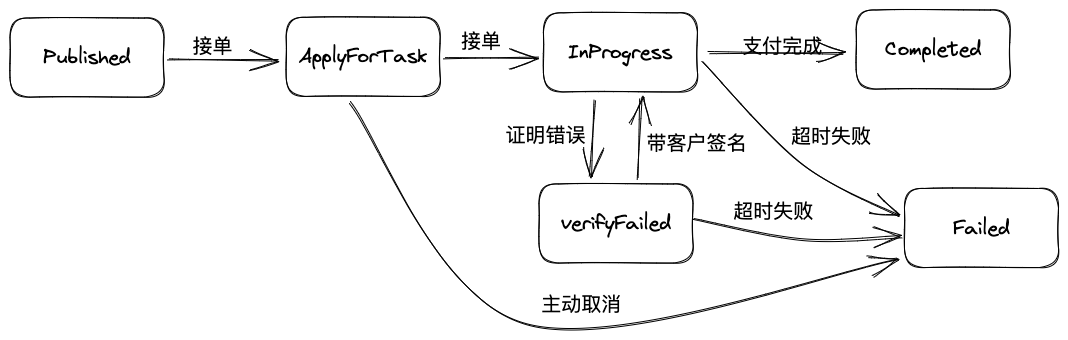
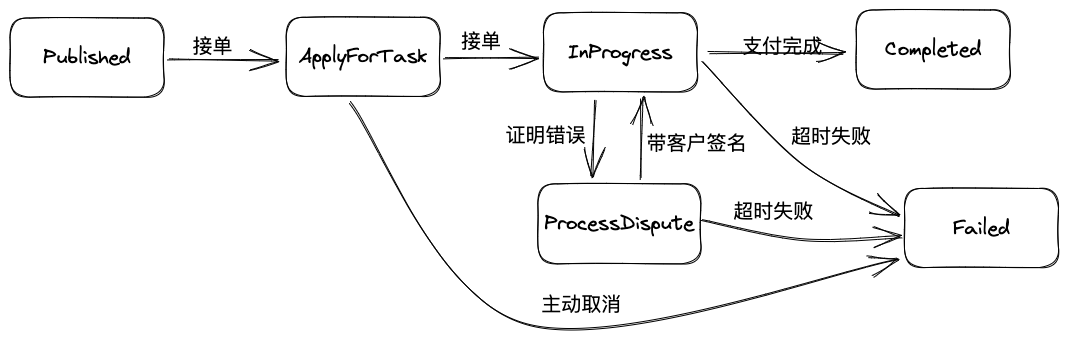
增加公共合约DataTranscation定义

diff --git a/systems/dataDeals/README.md b/systems/dataDeals/README.md
@@ -2,50 +2,119 @@
 
 ## 公共功能合约
 
-### ADataTransaction合约
+### DataTransaction合约
 
 数据交易公共接口约束数据交易基本操作，供各交易类型继承使用，以下为其接口及属性相关定义。
 
-#### ADataTransaction状态图
+#### DataTransaction状态图
 
 ![](./img/DataTransactionMachine.png)
+#### DataTransaction属性定义
+```
+// 定义交易状态
+enum TransactionState { Published, ApplyForTask, InProgress, ProcessDispute, Failed, Completed }
 
-#### ADataTransaction方法
+// 定义交易结构
+struct Transaction {
+    uint256 transactionId;         // 交易ID
+    uint256 maxDuration;           // 交易最大时长 
+    uint256 maxDisputeDuration;    // 最大争议处理时间
+    address provider;              // 提供者
+    string transcationType;        //交易类型
+}
 
-- 创建交易。
-- 取消交易。
-- 证明校验。
-- 完成交易。
+uint256 public totalTransactions;
 
-#### ADataTransaction属性  
+// 存储所有交易信息
+mapping(uint256 => Transaction) public transactions;
 
-- 交易管理员（admin）
-- 交易客户（client）
-- 交易最大时长（maxTransactionDuration）
-- 证明（proof）
-- 状态（status）
+// 交易客户 
+mapping(uint256 => address) public clients;
 
-```solidity
-struct Transaction { 
-    address admin, 
-    address client, 
-    uint256 maxTransactionDuration,
-    string proof,
-    TransactionStatus status; 
+// 用于检查交易是否存在
+mapping(uint256 => bool) public transactionExists;
+
+// 存储交易状态
+mapping(uint256 => TransactionState) public transactionStatus;
+```
+#### DataTransaction方法
+
+```
+// 事件：交易发布
+event TransactionPublished(uint256 indexed transactionId, address indexed client);
+
+// 事件：交易状态变更
+event TransactionStatusChanged(uint256 indexed transactionId, uint256 newStatus);
+
+constructor() {
+    totalTransactions = 0;
+}
+
+// 修饰器：验证交易是否存在
+modifier transactionExistsModifier(uint256 transactionId) {
+    require(transactionExists[transactionId], "Transaction does not exist");
+    _;
+}
+
+// 修饰器：只能由客户调用
+modifier onlyClient(uint256 transactionId) {
+    require(clients[transactionId] == msg.sender, "Only client can perform this action");
+    _;
+}
+
+// 修饰器：只能由计算提供者调用
+modifier onlyProvider(uint256 transactionId) {
+    require(transactions[transactionId].provider == msg.sender, "Only provider can perform this action");
+    _;
+}
+
+// 发布计算交易
+function createTransaction(
+    address _provider,
+    uint256 _maxDuration,
+    uint256 _maxDisputeDuration,
+    string memory _transcationType 
+) external {
+    transactions[totalTransactions] = Transaction(
+        totalTransactions ,
+        _maxDuration,
+        _maxDisputeDuration,
+        _provider,
+        _transcationType
+    );
+
+    transactionStatus[totalTransactions] = TransactionState.Published;
+
+    transactionExists[totalTransactions] = true;
+
+    totalTransactions++;
+
+    emit TransactionPublished(totalTransactions, msg.sender);
+}
+
+// 改变交易状态，只允许内部调用
+function updateState(uint256 transactionID, uint256 newStatus) internal {
+    require(newStatus > uint256(TransactionState.Completed), "Invalid status"); // 确保状态值有效
+    transactionStatus[transactionID] = TransactionState(newStatus);
+    emit TransactionStatusChanged(transactionID, newStatus);
+}
+
+// 获取交易的状态
+function getState(uint256 transcationID) external view returns (TransactionState) {
+    return transactionStatus[transcationID];
+}
+
+// 获取交易客户
+function getTransactionClient(uint256 transactionID) external view returns (address) {
+    return clients[transactionID];
+}
+
+// 设置交易客户
+function setTransactionClient(uint256 transactionID,address client) external onlyProvider(transactionID){
+    clients[transactionID] = client;
+    updateState(transactionID, uint256(TransactionState.ApplyForTask));
 }
 ```
-
-#### StorageTransaction状态
-
-- 交易中（inProgress）
-- 失败（failure）
-- 完成（completion）
-
-```solidity
-enum TransactionStatus { InProgress, Failure, Completion }
-```
-
-
 ### Supervision合约（库）
 
 数据交易币质押支付相关功能由Supervision合约实现，以下为其接口及属性相关定义。
@@ -68,9 +137,9 @@ uint256 public totalPledgeAmount;
 
 数据集撮合拍卖功能由Auction合约和Bid合约实现，数据集管理功能由BigData合约和Replica合约实现，存储交易管理功能由StorageTransaction合约实现，datacap管理功能由datacap合约实现，以下为各合约接口及属性相关定义。
 
-### Replica存储合约
+### 存储合约
 
-#### Replica属性
+#### 属性定义
 
 ```solidity
 //副本定义
@@ -124,7 +193,7 @@ uint256 public defaultReputation;   // 默认最小信誉值
 
 ```
 
-#### Replica方法
+#### 存储合约方法
 
 - 更新存储：更新SP地址，有效期，更新存储状态为有效（完成拍卖及存储交易后）。
 - 续期：完成续期后，更新副本有效期。
@@ -220,8 +289,6 @@ enum BidStatus {
 ### 存储校验算法实现
 
 
-
-
 ## Retrieve Deal
 
 检索交易中，数据集下载交易功能由RetrieveTransaction合约实现，数据集检索查找功能由前端业务层实现，以下为合约接口及属性相关定义。
@@ -244,3 +311,4 @@ enum BidStatus {
 继承ADataTransaction合约重写校验接口
 
 #### 计算交易校验算法
+
